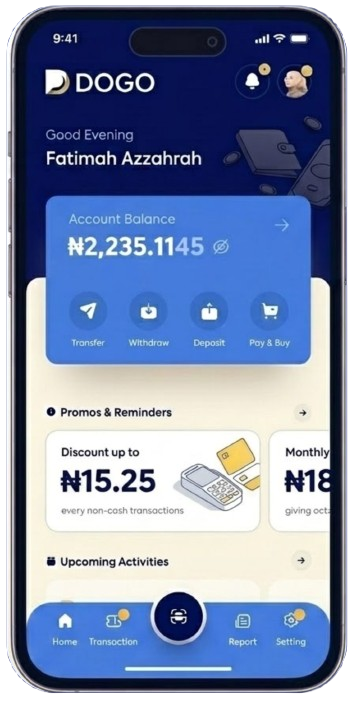
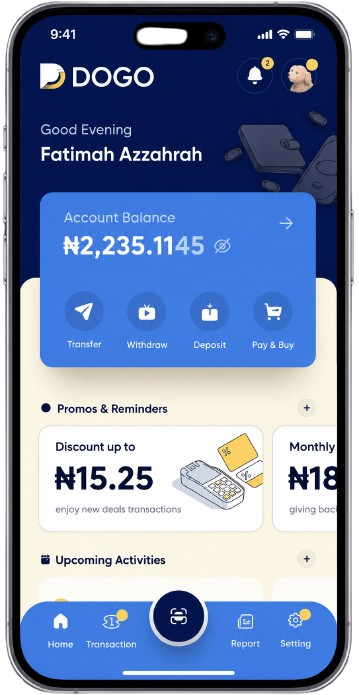
improved designs

diff --git a/src/app/pages/landing/landing.component.html b/src/app/pages/landing/landing.component.html
@@ -10,10 +10,10 @@
   <div class="absolute -bottom-20 left-10 w-64 h-64 rounded-full blur-[100px] opacity-10" style="background: radial-gradient(circle, var(--dogo-primary), transparent)"></div>
 
   <div class="max-w-7xl mx-auto px-6 md:px-12 relative z-10">
-    <div class="grid lg:grid-cols-2 gap-16 items-center">
+    <div class="grid lg:grid-cols-12 gap-16 items-center">
 
       <!-- Text Content -->
-      <div class="pt-4 lg:pt-0">
+      <div class="pt-4 lg:pt-0 lg:col-span-7">
         <!-- Trust Badge -->
         <div class="halal-badge mb-5">
           <i class="ri-verified-badge-fill text-sm"></i>
@@ -76,24 +76,24 @@
         </div>
 
         <!-- Social Proof Numbers -->
-        <div class="flex flex-wrap gap-8 pb-10">
+        <div class="flex items-center gap-4 lg:gap-8 pb-10 whitespace-nowrap">
           <div>
-            <p class="text-3xl font-black text-[var(--dogo-primary)]">₦10B+</p>
-            <p class="text-[11px] font-bold text-[var(--dogo-muted)] uppercase tracking-widest">Target AUM Year 1</p>
+            <p class="text-2xl lg:text-3xl font-black text-[var(--dogo-primary)]">₦10B+</p>
+            <p class="text-[9px] lg:text-[11px] font-bold text-[var(--dogo-muted)] uppercase tracking-widest">Target AUM Year 1</p>
           </div>
-          <div class="border-l border-[var(--dogo-primary)]/10 pl-8">
-            <p class="text-3xl font-black text-[var(--dogo-primary)]">50K+</p>
-            <p class="text-[11px] font-bold text-[var(--dogo-muted)] uppercase tracking-widest">Target Users (6 months)</p>
+          <div class="border-l border-[var(--dogo-primary)]/10 pl-4 lg:pl-8">
+            <p class="text-2xl lg:text-3xl font-black text-[var(--dogo-primary)]">50K+</p>
+            <p class="text-[9px] lg:text-[11px] font-bold text-[var(--dogo-muted)] uppercase tracking-widest">Target Users (6 months)</p>
           </div>
-          <div class="border-l border-[var(--dogo-primary)]/10 pl-8">
-            <p class="text-3xl font-black text-[var(--dogo-primary)]">0</p>
-            <p class="text-[11px] font-bold text-[var(--dogo-muted)] uppercase tracking-widest">Shariah Violations · Ever</p>
+          <div class="border-l border-[var(--dogo-primary)]/10 pl-4 lg:pl-8">
+            <p class="text-2xl lg:text-3xl font-black text-[var(--dogo-primary)]">0</p>
+            <p class="text-[9px] lg:text-[11px] font-bold text-[var(--dogo-muted)] uppercase tracking-widest">Shariah Violations · Ever</p>
           </div>
         </div>
       </div>
 
       <!-- Hero Visual -->
-      <div class="flex justify-center items-end lg:items-end relative">
+      <div class="flex justify-center items-end lg:items-end relative lg:col-span-5">
         <!-- Phone Mockup -->
         <div class="relative anim-float">
           <!-- Main phone image -->
@@ -128,7 +128,7 @@
           <i class="ri-verified-badge-fill text-[var(--dogo-primary)] text-3xl group-hover:text-[var(--dogo-secondary)] transition-colors"></i>
         </div>
         <h3 class="text-2xl font-black text-[var(--dogo-dark)] mb-4 group-hover:text-white transition-colors">100% Halal-Certified</h3>
-        <p class="text-[var(--dogo-muted)] font-medium leading-relaxed group-hover:text-white/70 transition-colors">
+        <p class="text-[var(--dogo-muted)] font-medium leading-relaxed text-justify group-hover:text-white/70 transition-colors">
           Every product is approved by our Shariah Supervisory Board and reviewed against AAOIFI standards. No hidden interest, no Gharar, no Maysir — guaranteed.
         </p>
       </div>
@@ -139,7 +139,7 @@
           <i class="ri-map-pin-user-fill text-[var(--dogo-primary)] text-3xl group-hover:text-[var(--dogo-secondary)] transition-colors"></i>
         </div>
         <h3 class="text-2xl font-black text-[var(--dogo-dark)] mb-4 group-hover:text-white transition-colors">Built for Nigerians</h3>
-        <p class="text-[var(--dogo-muted)] font-medium leading-relaxed group-hover:text-white/70 transition-colors">
+        <p class="text-[var(--dogo-muted)] font-medium leading-relaxed text-justify group-hover:text-white/70 transition-colors">
           All investments are ₦ denominated. Fund your account via Paystack, NIBSS bank transfer, or USSD. Full BVN and NIN verified KYC. Your data stays in Nigeria under NDPR.
         </p>
       </div>
@@ -150,7 +150,7 @@
           <i class="ri-funds-box-fill text-[var(--dogo-primary)] text-3xl group-hover:text-[var(--dogo-secondary)] transition-colors"></i>
         </div>
         <h3 class="text-2xl font-black text-[var(--dogo-dark)] mb-4 group-hover:text-white transition-colors">Real Returns, Real Impact</h3>
-        <p class="text-[var(--dogo-muted)] font-medium leading-relaxed group-hover:text-white/70 transition-colors">
+        <p class="text-[var(--dogo-muted)] font-medium leading-relaxed text-justify group-hover:text-white/70 transition-colors">
           Earn competitive profit-sharing returns on Mudarabah, Sukuk and Halal equities — all while your Zakat is automatically calculated and disbursed to CBN-approved charities.
         </p>
       </div>
@@ -278,7 +278,7 @@
           @for(item of ['Haram sector automated screening (alcohol, Riba, weapons, adult content)', 'AAOIFI standards compliance on all products', 'Quarterly SSB audit reports published publicly', 'Automatic income purification routed to Nigerian Islamic charities']; track item) {
             <div class="flex items-start gap-4">
               <div class="w-7 h-7 rounded-full bg-[var(--dogo-primary)] flex items-center justify-center shrink-0 mt-0.5">
-                <i class="ri-check-line text-[var(--dogo-secondary)] text-sm"></i>
+                <i class="ri-check-line text-white text-sm"></i>
               </div>
               <p class="font-medium text-[#374151]">{{ item }}</p>
             </div>
@@ -295,8 +295,8 @@
         <div class="bg-[var(--dogo-primary)] rounded-[50px] p-12 text-white relative overflow-hidden shadow-premium">
           <div class="absolute top-0 right-0 w-72 h-72 rounded-full blur-[80px] opacity-10" style="background: radial-gradient(circle, var(--dogo-secondary), transparent)"></div>
           <div class="relative z-10">
-            <div class="w-16 h-16 rounded-full bg-[var(--dogo-secondary)]/20 flex items-center justify-center mb-8">
-              <i class="ri-verified-badge-fill text-[var(--dogo-secondary)] text-3xl"></i>
+            <div class="w-16 h-16 rounded-full bg-white/10 border border-white/20 flex items-center justify-center mb-8">
+              <i class="ri-verified-badge-fill text-white text-3xl shadow-sm"></i>
             </div>
             <h3 class="text-3xl font-black mb-4">What We Screen Out</h3>
             <p class="text-white/60 font-medium mb-8">Our AI engine auto-removes all Haram elements from every portfolio, in real-time.</p>
@@ -324,47 +324,47 @@
 <!-- ===== ZAKAT TEASER ===== -->
 <section class="py-24 bg-white">
   <div class="max-w-7xl mx-auto px-6 md:px-12">
-    <div class="bg-gradient-to-br from-[var(--dogo-primary)] to-[var(--dogo-secondary)] rounded-[60px] p-12 md:p-16 lg:p-20 relative overflow-hidden">
+    <div class="bg-[var(--dogo-primary)] rounded-[40px] md:rounded-[60px] p-8 md:p-12 lg:p-20 relative overflow-hidden shadow-2xl">
       <!-- Pattern -->
       <div class="absolute inset-0 dogo-pattern opacity-10"></div>
-      <!-- Gold glow -->
-      <div class="absolute -right-20 -bottom-20 w-80 h-80 bg-[var(--dogo-secondary)]/20 rounded-full blur-[100px]"></div>
+      <!-- Glow -->
+      <div class="absolute -right-20 -bottom-20 w-80 h-80 bg-[var(--dogo-secondary)] rounded-full blur-[100px] opacity-50"></div>
 
-      <div class="grid lg:grid-cols-2 gap-12 items-center relative z-10">
+      <div class="grid lg:grid-cols-2 gap-12 lg:gap-20 items-center relative z-10">
         <div>
-          <div class="halal-badge mb-8">
+          <div class="halal-badge bg-[var(--dogo-secondary)] text-white mb-8 border-none">
             <i class="ri-hand-heart-fill"></i> Zakat Made Easy
           </div>
-          <h2 class="text-4xl md:text-5xl font-black text-white tracking-tighter leading-tight mb-8">
-            Calculate your Zakat.<br><span class="text-[var(--dogo-secondary)]">Fulfill your obligation.</span>
+          <h2 class="text-4xl md:text-5xl lg:text-6xl font-black text-white tracking-tighter leading-tight mb-6">
+            Calculate your Zakat.<br><span class="text-white/90">Fulfill your obligation.</span>
           </h2>
-          <p class="text-white/70 font-medium leading-relaxed text-lg mb-10">
+          <p class="text-white/70 font-medium leading-relaxed text-lg mb-10 max-w-lg">
             Nigeria's most accurate Naira-based Zakat calculator. Built on current gold nisab thresholds. Pay directly to CBN-approved Islamic charities with one tap.
           </p>
-          <a routerLink="/zakat" class="inline-flex items-center gap-3 bg-[var(--dogo-secondary)] text-[var(--dogo-dark)] px-10 py-5 rounded-2xl font-black hover:bg-[var(--dogo-secondary-soft,var(--dogo-secondary))] transition-all shadow-xl shadow-[var(--dogo-secondary)]/30 text-lg">
+          <a routerLink="/zakat" class="inline-flex items-center justify-center gap-3 w-full sm:w-auto bg-white text-[var(--dogo-primary)] px-10 py-5 rounded-2xl font-black hover:bg-slate-100 transition-all shadow-xl text-lg">
             <i class="ri-calculator-2-fill text-xl"></i> Calculate My Zakat
           </a>
         </div>
 
-        <div class="bg-white/10 backdrop-blur-sm rounded-[40px] p-10 border border-white/10">
-          <p class="text-[11px] font-black uppercase tracking-widest text-[var(--dogo-secondary)] mb-2">Your Zakat Summary</p>
-          <p class="text-4xl font-black text-white mb-8">₦ — ,— —</p>
+        <div class="bg-[var(--dogo-secondary)]/40 backdrop-blur-md rounded-[32px] md:rounded-[40px] p-8 md:p-10 border border-white/10 shadow-2xl">
+          <p class="text-[11px] font-black uppercase tracking-widest text-white/60 mb-2">Your Zakat Summary</p>
+          <p class="text-4xl md:text-5xl font-black text-white mb-8">₦ — ,— —</p>
           <div class="space-y-4">
             <div class="flex justify-between items-center py-3 border-b border-white/10">
-              <span class="text-white/60 font-medium">Cash & Savings</span>
-              <span class="text-white font-black">₦ 0</span>
+              <span class="text-white/70 font-medium text-sm md:text-base">Cash & Savings</span>
+              <span class="text-white font-black text-lg">₦ 0</span>
             </div>
             <div class="flex justify-between items-center py-3 border-b border-white/10">
-              <span class="text-white/60 font-medium">Investments</span>
-              <span class="text-white font-black">₦ 0</span>
+              <span class="text-white/70 font-medium text-sm md:text-base">Investments</span>
+              <span class="text-white font-black text-lg">₦ 0</span>
             </div>
             <div class="flex justify-between items-center py-3 border-b border-white/10">
-              <span class="text-white/60 font-medium">Gold Value</span>
-              <span class="text-white font-black">₦ 0</span>
+              <span class="text-white/70 font-medium text-sm md:text-base">Gold Value</span>
+              <span class="text-white font-black text-lg">₦ 0</span>
             </div>
           </div>
-          <button class="w-full mt-8 py-4 bg-[var(--dogo-secondary)] text-[var(--dogo-dark)] rounded-2xl font-black hover:bg-[var(--dogo-secondary-soft,var(--dogo-secondary))] transition-all">
-            Start Calculator <i class="ri-arrow-right-line ml-1"></i>
+          <button class="w-full mt-8 py-4 md:py-5 bg-[var(--dogo-primary)] text-white rounded-2xl font-black hover:bg-[var(--dogo-primary)]/80 transition-all shadow-xl flex items-center justify-center gap-2 border border-white/5">
+            Start Calculator <i class="ri-arrow-right-line text-lg"></i>
           </button>
         </div>
       </div>

diff --git a/src/app/pages/client/dashboard/dashboard.component.html b/src/app/pages/client/dashboard/dashboard.component.html
@@ -208,11 +208,11 @@
 
                       <p class="relative z-10 text-xs font-medium text-slate-400 line-clamp-2 italic mb-10 mt-4 leading-relaxed">"{{ p.description }}"</p>
                       
-                      <div class="relative z-10 mt-auto grid grid-cols-2 gap-4">
-                          <button (click)="viewDetail(p)" class="w-full py-4 bg-[var(--dogo-cream)] hover:bg-slate-100 text-[var(--dogo-primary)] rounded-2xl text-[10px] font-black uppercase tracking-widest transition-all">
+                      <div class="relative z-10 mt-auto flex gap-3">
+                          <button (click)="viewDetail(p)" class="flex-1 py-3 bg-[var(--dogo-cream)] hover:bg-slate-100 text-[var(--dogo-primary)] rounded-xl text-[9px] font-black uppercase tracking-widest transition-all">
                               Analyze
                           </button>
-                          <button (click)="openInvest(p)" class="w-full py-4 bg-[var(--dogo-primary)] hover:bg-[var(--dogo-primary-soft)] text-white rounded-2xl text-[10px] font-black uppercase tracking-widest transition-all shadow-xl shadow-[var(--dogo-primary)]/10">
+                          <button (click)="openInvest(p)" class="flex-1 py-3 bg-[var(--dogo-primary)] hover:bg-[var(--dogo-primary-soft)] text-white rounded-xl text-[9px] font-black uppercase tracking-widest transition-all shadow-xl shadow-[var(--dogo-primary)]/10">
                               Invest
                           </button>
                       </div>
@@ -929,8 +929,9 @@
 @if(showInvestModal()) {
     <div class="fixed inset-0 z-[1000] flex items-center justify-center p-4 animate-fade-in shadow-2xl">
         <div class="absolute inset-0 bg-[var(--dogo-dark)]/80 backdrop-blur-xl" (click)="showInvestModal.set(false)"></div>
-        <div class="relative bg-white rounded-[40px] shadow-2xl w-full max-w-md p-10 transform transition-all animate-slide-up text-center border border-[var(--dogo-primary)]/5">
-            <div class="w-16 h-16 rounded-3xl bg-[var(--dogo-secondary)]/20 text-[var(--dogo-secondary)] flex items-center justify-center mx-auto mb-6 shadow-pill">
+        <div class="relative bg-white rounded-[40px] shadow-2xl w-full max-w-md transform transition-all animate-slide-up flex flex-col max-h-[90vh] overflow-hidden border border-[var(--dogo-primary)]/5">
+            <div class="p-8 md:p-10 overflow-y-auto custom-scrollbar-h flex-grow text-center">
+                <div class="w-16 h-16 rounded-3xl bg-[var(--dogo-secondary)]/20 text-[var(--dogo-secondary)] flex items-center justify-center mx-auto mb-6 shadow-pill shrink-0">
                 <i class="ri-copper-coin-line text-3xl"></i>
             </div>
             <!-- <h3 class="text-2xl font-black text-[var(--dogo-dark)] tracking-tight mb-2">Initialize Investment</h3> -->
@@ -1062,6 +1063,7 @@
                     }
                 </button>
                 <button (click)="showInvestModal.set(false)" class="text-[10px] font-black uppercase tracking-widest text-slate-400 hover:text-red-500 transition-colors py-2">Maybe Later</button>
+            </div>
             </div>
         </div>
     </div>

diff --git a/src/app/pages/corporate/dashboard/corporate-dashboard.component.html b/src/app/pages/corporate/dashboard/corporate-dashboard.component.html
@@ -208,11 +208,11 @@
 
                       <p class="relative z-10 text-xs font-medium text-slate-400 line-clamp-2 italic mb-10 mt-4 leading-relaxed">"{{ p.description }}"</p>
                       
-                      <div class="relative z-10 mt-auto grid grid-cols-2 gap-4">
-                          <button (click)="viewDetail(p)" class="w-full py-4 bg-[var(--dogo-cream)] hover:bg-slate-100 text-[var(--dogo-primary)] rounded-2xl text-[10px] font-black uppercase tracking-widest transition-all">
+                      <div class="relative z-10 mt-auto flex gap-3">
+                          <button (click)="viewDetail(p)" class="flex-1 py-3 bg-[var(--dogo-cream)] hover:bg-slate-100 text-[var(--dogo-primary)] rounded-xl text-[9px] font-black uppercase tracking-widest transition-all">
                               Analyze
                           </button>
-                          <button (click)="openInvest(p)" class="w-full py-4 bg-[var(--dogo-primary)] hover:bg-[var(--dogo-primary-soft)] text-white rounded-2xl text-[10px] font-black uppercase tracking-widest transition-all shadow-xl shadow-[var(--dogo-primary)]/10">
+                          <button (click)="openInvest(p)" class="flex-1 py-3 bg-[var(--dogo-primary)] hover:bg-[var(--dogo-primary-soft)] text-white rounded-xl text-[9px] font-black uppercase tracking-widest transition-all shadow-xl shadow-[var(--dogo-primary)]/10">
                               Invest
                           </button>
                       </div>
@@ -929,8 +929,9 @@
 @if(showInvestModal()) {
     <div class="fixed inset-0 z-[1000] flex items-center justify-center p-4 animate-fade-in shadow-2xl">
         <div class="absolute inset-0 bg-[var(--dogo-dark)]/80 backdrop-blur-xl" (click)="showInvestModal.set(false)"></div>
-        <div class="relative bg-white rounded-[40px] shadow-2xl w-full max-w-md p-10 transform transition-all animate-slide-up text-center border border-[var(--dogo-primary)]/5">
-            <div class="w-16 h-16 rounded-3xl bg-[var(--dogo-secondary)]/20 text-[var(--dogo-secondary)] flex items-center justify-center mx-auto mb-6 shadow-pill">
+        <div class="relative bg-white rounded-[40px] shadow-2xl w-full max-w-md transform transition-all animate-slide-up flex flex-col max-h-[90vh] overflow-hidden border border-[var(--dogo-primary)]/5">
+            <div class="p-8 md:p-10 overflow-y-auto custom-scrollbar-h flex-grow text-center">
+                <div class="w-16 h-16 rounded-3xl bg-[var(--dogo-secondary)]/20 text-[var(--dogo-secondary)] flex items-center justify-center mx-auto mb-6 shadow-pill shrink-0">
                 <i class="ri-copper-coin-line text-3xl"></i>
             </div>
             <!-- <h3 class="text-2xl font-black text-[var(--dogo-dark)] tracking-tight mb-2">Initialize Investment</h3> -->
@@ -1062,6 +1063,7 @@
                     }
                 </button>
                 <button (click)="showInvestModal.set(false)" class="text-[10px] font-black uppercase tracking-widest text-slate-400 hover:text-red-500 transition-colors py-2">Maybe Later</button>
+            </div>
             </div>
         </div>
     </div>

diff --git a/src/app/pages/products/products.component.ts b/src/app/pages/products/products.component.ts
@@ -34,7 +34,7 @@ export const PRODUCTS_DATA: Record<string, ProductData> = {
     minInvestment: '₦10,000',
     tenor: '3, 6, or 12 months',
     icon: 'ri-seedling-fill',
-    accentColor: '#4CC9F0',
+    accentColor: 'var(--dogo-secondary)',
     accentLight: 'var(--dogo-cream)',
     features: [
       { icon: 'ri-percent-line', title: '70/30 Profit Split', desc: '70% of profits go to you (Rabb-ul-Mal). 30% goes to DOGO Finance (Mudarib) for management. No interest, no fees.' },
@@ -64,7 +64,7 @@ export const PRODUCTS_DATA: Record<string, ProductData> = {
     minInvestment: '₦50,000',
     tenor: '1 to 5 years',
     icon: 'ri-bank-fill',
-    accentColor: '#F9C74F',
+    accentColor: 'var(--dogo-secondary)',
     accentLight: 'var(--dogo-cream)',
     features: [
       { icon: 'ri-building-4-line', title: 'Asset-Backed', desc: 'Every Sukuk on our platform is backed by real, tangible assets — real estate, infrastructure, commodities. No speculative instruments.' },
@@ -93,7 +93,7 @@ export const PRODUCTS_DATA: Record<string, ProductData> = {
     minInvestment: '₦25,000',
     tenor: 'Open-ended',
     icon: 'ri-line-chart-fill',
-    accentColor: '#43AA8B',
+    accentColor: 'var(--dogo-secondary)',
     accentLight: 'var(--dogo-cream)',
     features: [
       { icon: 'ri-robot-line', title: 'AI Haram Screening', desc: 'Real-time screening powered by MSCI Islamic Index data. 7 prohibited criteria checked against every stock automatically.' },
@@ -122,7 +122,7 @@ export const PRODUCTS_DATA: Record<string, ProductData> = {
     minInvestment: '₦25,000',
     tenor: '6 or 12 months',
     icon: 'ri-shield-star-fill',
-    accentColor: '#480CA8',
+    accentColor: 'var(--dogo-secondary)',
     accentLight: 'var(--dogo-cream)',
     features: [
       { icon: 'ri-handshake-line', title: 'Fixed Agency Fee', desc: 'DOGO Finance earns a fixed Wakalah fee regardless of profit — aligning our interests with yours.' },
@@ -150,7 +150,7 @@ export const PRODUCTS_DATA: Record<string, ProductData> = {
     minInvestment: '₦100,000',
     tenor: '12 to 36 months',
     icon: 'ri-team-fill',
-    accentColor: '#3A0CA3',
+    accentColor: 'var(--dogo-secondary)',
     accentLight: 'var(--dogo-cream)',
     features: [
       { icon: 'ri-group-line', title: 'True Partnership Structure', desc: 'All partners share in both upside profits and downside losses proportionately — the most equitable Islamic finance contract.' },
@@ -178,7 +178,7 @@ export const PRODUCTS_DATA: Record<string, ProductData> = {
     minInvestment: '₦50,000',
     tenor: '12 to 60 months',
     icon: 'ri-building-2-fill',
-    accentColor: '#F72585',
+    accentColor: 'var(--dogo-secondary)',
     accentLight: 'var(--dogo-cream)',
     features: [
       { icon: 'ri-home-gear-line', title: 'Real Asset Backing', desc: 'Every Ijarah instrument is backed by a real, tangible, productive asset that generates lease income.' },

diff --git a/src/app/layouts/corporate-layout/corporate-layout.ts b/src/app/layouts/corporate-layout/corporate-layout.ts
@@ -29,17 +29,33 @@ export class CorporateLayout {
   userName = computed(() => {
     const u = this.user();
     if (!u) return 'Malik Sherifdeen';
+    
+    if (u.CompanyName || u.companyName) {
+      return u.CompanyName || u.companyName;
+    }
+    
     const first = u.FirstName || u.firstName || 'Malik';
     const last = u.LastName || u.lastName || 'Sherifdeen';
+    
+    if (first === last) return first;
     return `${first} ${last}`;
   });
 
   userInitials = computed(() => {
     const u = this.user();
     if (!u) return 'MS';
-    const first = u.FirstName || u.firstName || 'M';
-    const last = u.LastName || u.lastName || 'S';
-    return (first[0] + last[0]).toUpperCase();
+    
+    const first = u.FirstName || u.firstName;
+    const last = u.LastName || u.lastName;
+    const nameToUse = u.CompanyName || u.companyName || (first && first === last ? first : null);
+    
+    if (nameToUse) {
+       const parts = nameToUse.trim().split(' ');
+       if (parts.length > 1) return (parts[0][0] + parts[1][0]).toUpperCase();
+       return nameToUse.substring(0, 2).toUpperCase();
+    }
+    
+    return ((first ? first[0] : 'M') + (last ? last[0] : 'S')).toUpperCase();
   });
 
   menuItems = [

diff --git a/src/app/layouts/home-layout/home-layout.ts b/src/app/layouts/home-layout/home-layout.ts
@@ -32,7 +32,10 @@ export class HomeLayout implements OnInit {
     this.isMenuOpen = !this.isMenuOpen;
   }
 
-  customerTypes = signal<any[]>([]);
+  customerTypes = signal<any[]>([
+    { id: 1, name: 'Individual', description: 'For personal wealth' },
+    { id: 2, name: 'Corporate', description: 'For registered businesses' }
+  ]);
 
   ngOnInit() {
     this.authService.getCustomerTypes().subscribe({
